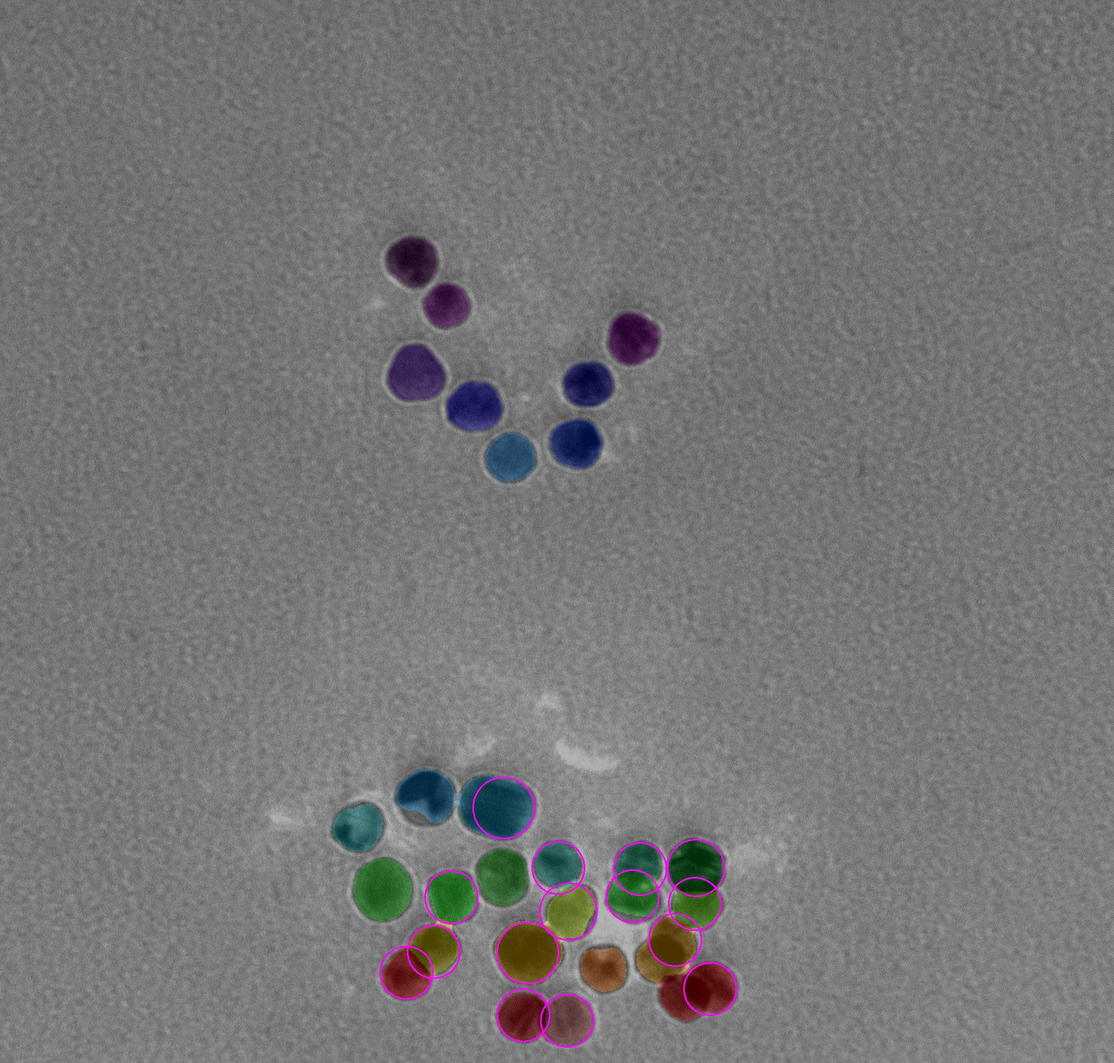
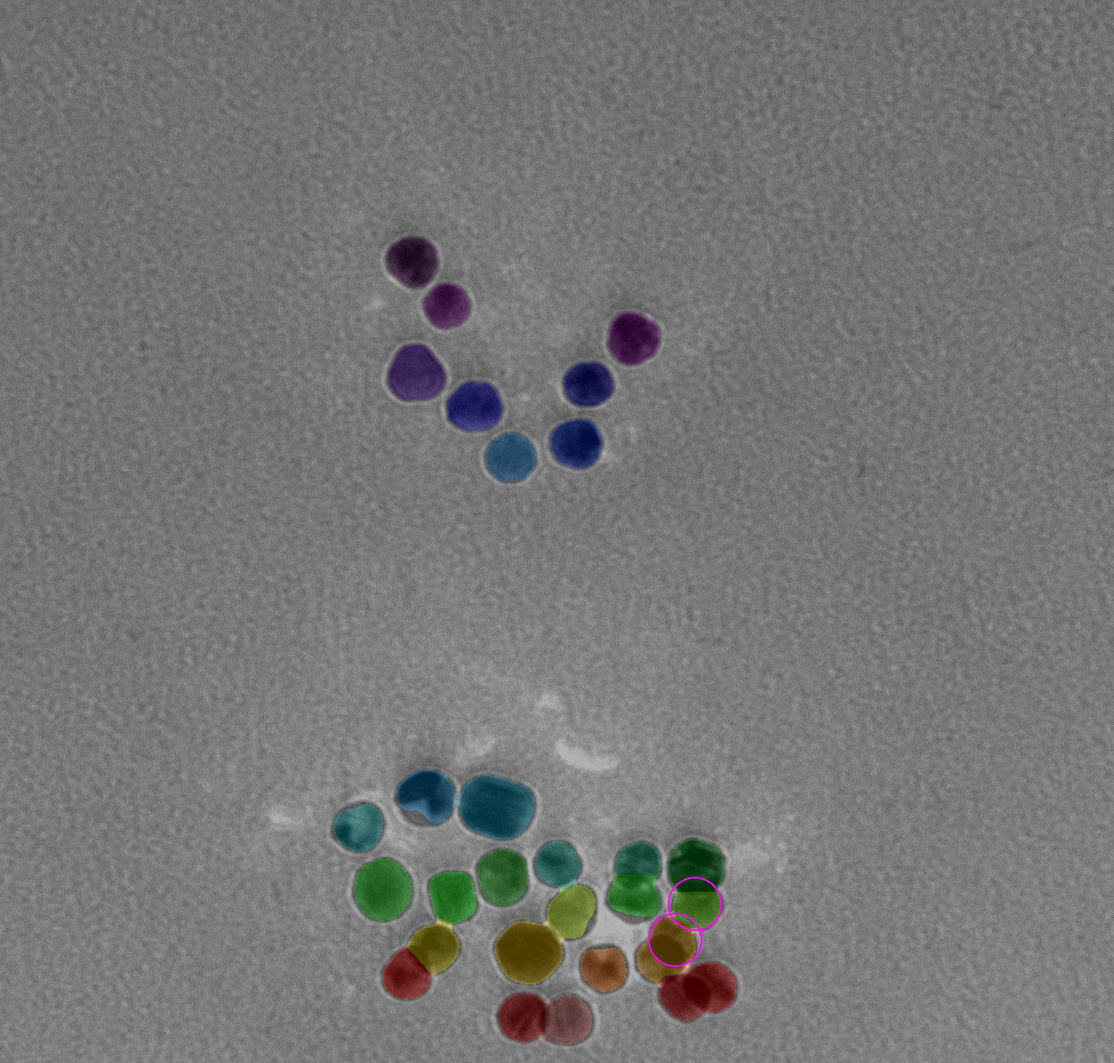
better way for selecting regions for HT

diff --git a/img_obj.py b/img_obj.py
@@ -58,4 +58,29 @@ class NPImage:
         self.img = median(self.img, kernel)
 
     def binarize(self):
+        if self.np_type == "nanoparticles":
+            thresh = threshold_minimum(self.img)
+        else:
+            self.thresh = threshold_otsu(self.img)
+        self.binary = self.img < thresh
+        self.binary = remove_small_holes(self.binary)
+        self.binary = remove_small_objects(self.binary)
+
+    def watershed_transform(self):
+        distance = ndi.distance_transform_edt(self.binary)
+        img = -distance
+        
         if self.np_type == 'nanoparticles':
+            coords = peak_local_max(distance, footprint=np.ones((3, 3)), min_distance=20)
+            mask = np.zeros(distance.shape, dtype=bool)
+            mask[tuple(coords.T)] = True
+        else:
+            mask =  self.binary
+            for _ in range(10):
+                mask = remove_small_holes(mask)
+                mask = remove_small_objects(mask)
+            for _ in range(10):
+                mask = erosion(mask)
+
+        markers, _ = ndi.label(mask)
+        self.labels = watershed(img, markers, mask=self.binary)

diff --git a/img_fcn.py b/img_fcn.py
@@ -318,7 +318,11 @@ def find_overlaps(img, binary, sizes, np_type, pixel_size):
         list: list pf tuples with coordinates of center
                 and radii of hough circles
     """
-    labels = label(binary, background=0)
+    erode = erosion(binary)
+    iterations = int(5/pixel_size)
+    for _ in range(iterations):
+        erode = erosion(erode)
+    labels = label(erode, background=0)
     _, props = calculation_watershed(labels, np_type)
 
     median = calc_median(deepcopy(sizes))
